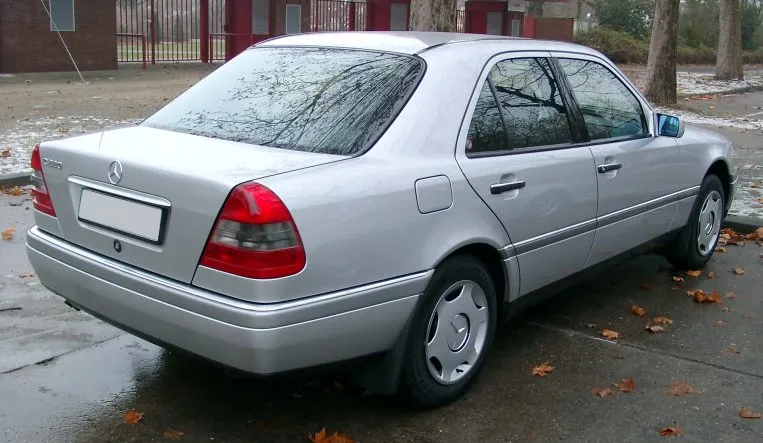
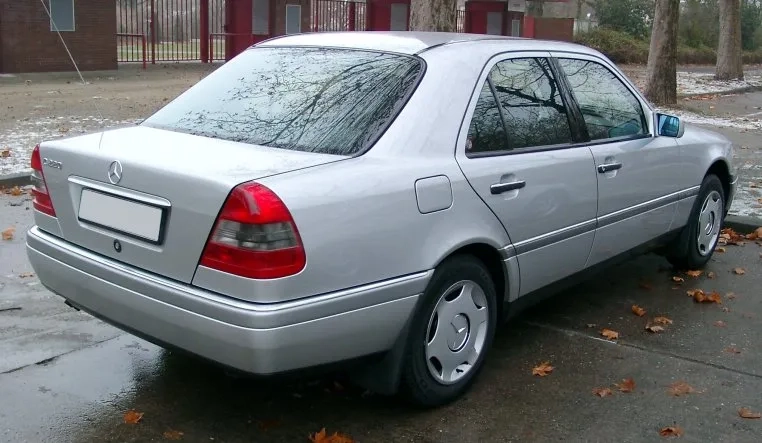
246

diff --git a/pic/ja_mb_img_c.html b/pic/ja_mb_img_c.html
@@ -420,7 +420,7 @@
 					</div>
 					<section>
 						<h4 class="displayNone">W202</h4>
-						<a href="full/c/w202_r.jpg"><img loading="lazy" src="style/c/w202_r.webp" alt="メルセデス,W202,Cクラス,リヤ" width="763" height="443"></a>
+						<a href="full/c/w202_r.jpg"><img loading="lazy" src="style/c/w202_r.webp" alt="メルセデス,W202,Cクラス,リヤ" width="762" height="443"></a>
 						<a href="full/c/w202_d.jpg"><img loading="lazy" src="style/c/w202_d.webp" alt="メルセデス,W202,Cクラス,ダッシュボード" width="443" height="443"></a><br>
 						<a href="full/c/w202_tp.jpg"><img loading="lazy" src="style/c/w202_tp.webp" alt="メルセデス,W202,Cクラス,寸法" width="1210" height="728"></a><br>
 						<a href="full/c/w202_s.jpg"><img loading="lazy" src="style/c/w202_s.webp" alt="メルセデス,W202,Cクラス,サイドビュー" width="746" height="420"></a>
@@ -431,10 +431,10 @@
 						<p class="i m1">06/1997</p><br>
 						<a href="full/c/w202_f2.jpg"><img loading="lazy" src="style/c/w202_f2.webp" alt="メルセデス,W202,Cクラス,フロント" width="735" height="315"></a>
 						<a href="full/c/w202_d2.jpg"><img loading="lazy" src="style/c/w202_d2.webp" alt="メルセデス,W202,Cクラス,ダッシュボード" width="467" height="315"></a><br>
-						<a href="full/c/w202_r2.jpg"><img loading="lazy" src="style/c/w202_r2.webp" alt="メルセデス,W202,Cクラス,リア" width="738" height="312"></a>
+						<a href="full/c/w202_r2.jpg"><img loading="lazy" src="style/c/w202_r2.webp" alt="メルセデス,W202,Cクラス,リア" width="737" height="312"></a>
 						<a href="full/c/w202_i2.jpg"><img loading="lazy" src="style/c/w202_i2.webp" alt="メルセデス,W202,Cクラス,インテリア" width="468" height="312"></a><br>
 						<a href="full/c/w202.jpg"><img loading="lazy" src="style/c/w202.webp" alt="メルセデス,W202,C-class" width="603" height="452"></a>
-						<a href="full/c/w202_m2.jpg"><img loading="lazy" src="style/c/w202_m2.webp" alt="メルセデス,W202,Cクラス,エンジン" width="603" height="452"></a>
+						<a href="full/c/w202_m2.jpg"><img loading="lazy" src="style/c/w202_m2.webp" alt="メルセデス,W202,Cクラス,エンジン" width="602" height="452"></a>
 						<h5>Dimensions</h5>
 						<a href="full/c/w202_a2.jpg"><img loading="lazy" src="style/c/w202_a2.webp" alt="メルセデス,W202,Cクラス,寸法" width="1210" height="712"></a>
 					</section>

diff --git a/pic/mb_img_c.html b/pic/mb_img_c.html
@@ -420,7 +420,7 @@
 					</div>
 					<section>
 						<h4 class="displayNone">W202</h4>
-						<a href="full/c/w202_r.jpg"><img loading="lazy" src="style/c/w202_r.webp" alt="Mercedes,W202,C-klasse,Heckansicht" width="763" height="443"></a>
+						<a href="full/c/w202_r.jpg"><img loading="lazy" src="style/c/w202_r.webp" alt="Mercedes,W202,C-klasse,Heckansicht" width="762" height="443"></a>
 						<a href="full/c/w202_d.jpg"><img loading="lazy" src="style/c/w202_d.webp" alt="Mercedes,W202,C-klasse,Instrumententafel" width="443" height="443"></a><br>
 						<a href="full/c/w202_tp.jpg"><img loading="lazy" src="style/c/w202_tp.webp" alt="Mercedes,W202,C-klasse,Perspektive" width="1210" height="728"></a><br>
 						<a href="full/c/w202_s.jpg"><img loading="lazy" src="style/c/w202_s.webp" alt="Mercedes,W202,C-klasse,Seitenansicht" width="746" height="420"></a>
@@ -431,10 +431,10 @@
 						<p class="i m1">06/1997</p><br>
 						<a href="full/c/w202_f2.jpg"><img loading="lazy" src="style/c/w202_f2.webp" alt="Mercedes,W202,C-klasse,Frontansicht" width="735" height="315"></a>
 						<a href="full/c/w202_d2.jpg"><img loading="lazy" src="style/c/w202_d2.webp" alt="Mercedes,W202,C-klasse,Instrumententafel" width="467" height="315"></a><br>
-						<a href="full/c/w202_r2.jpg"><img loading="lazy" src="style/c/w202_r2.webp" alt="Mercedes,W202,C-klasse,Heckansicht" width="738" height="312"></a>
+						<a href="full/c/w202_r2.jpg"><img loading="lazy" src="style/c/w202_r2.webp" alt="Mercedes,W202,C-klasse,Heckansicht" width="737" height="312"></a>
 						<a href="full/c/w202_i2.jpg"><img loading="lazy" src="style/c/w202_i2.webp" alt="Mercedes,W202,C-klasse,Innenansicht" width="468" height="312"></a><br>
 						<a href="full/c/w202.jpg"><img loading="lazy" src="style/c/w202.webp" alt="Mercedes,W202,C-klasse" width="603" height="452"></a>
-						<a href="full/c/w202_m2.jpg"><img loading="lazy" src="style/c/w202_m2.webp" alt="Mercedes,W202,C-klasse,Motor" width="603" height="452"></a>
+						<a href="full/c/w202_m2.jpg"><img loading="lazy" src="style/c/w202_m2.webp" alt="Mercedes,W202,C-klasse,Motor" width="602" height="452"></a>
 						<h5>Abmessungen</h5>
 						<a href="full/c/w202_a2.jpg"><img loading="lazy" src="style/c/w202_a2.webp" alt="Mercedes,W202,C-klasse,Maße" width="1210" height="712"></a>
 					</section>

diff --git a/pic/en_mb_img_c.html b/pic/en_mb_img_c.html
@@ -420,7 +420,7 @@
 					</div>
 					<section>
 						<h4 class="displayNone">W202</h4>
-						<a href="full/c/w202_r.jpg"><img loading="lazy" src="style/c/w202_r.webp" alt="Mercedes,W202,C-class,Rear view" width="763" height="443"></a>
+						<a href="full/c/w202_r.jpg"><img loading="lazy" src="style/c/w202_r.webp" alt="Mercedes,W202,C-class,Rear view" width="762" height="443"></a>
 						<a href="full/c/w202_d.jpg"><img loading="lazy" src="style/c/w202_d.webp" alt="Mercedes,W202,C-class,Dashboard" width="443" height="443"></a><br>
 						<a href="full/c/w202_tp.jpg"><img loading="lazy" src="style/c/w202_tp.webp" alt="Mercedes,W202,C-class,Perspective" width="1210" height="728"></a><br>
 						<a href="full/c/w202_s.jpg"><img loading="lazy" src="style/c/w202_s.webp" alt="Mercedes,W202,C-class,side view" width="746" height="420"></a>
@@ -431,10 +431,10 @@
 						<p class="i m1">06/1997</p><br>
 						<a href="full/c/w202_f2.jpg"><img loading="lazy" src="style/c/w202_f2.webp" alt="Mercedes,W202,C-class,Front view" width="735" height="315"></a>
 						<a href="full/c/w202_d2.jpg"><img loading="lazy" src="style/c/w202_d2.webp" alt="Mercedes,W202,C-class,Dashboard" width="467" height="315"></a><br>
-						<a href="full/c/w202_r2.jpg"><img loading="lazy" src="style/c/w202_r2.webp" alt="Mercedes,W202,C-class,Rear view" width="738" height="312"></a>
+						<a href="full/c/w202_r2.jpg"><img loading="lazy" src="style/c/w202_r2.webp" alt="Mercedes,W202,C-class,Rear view" width="737" height="312"></a>
 						<a href="full/c/w202_i2.jpg"><img loading="lazy" src="style/c/w202_i2.webp" alt="Mercedes,W202,C-class,Interior" width="468" height="312"></a><br>
 						<a href="full/c/w202.jpg"><img loading="lazy" src="style/c/w202.webp" alt="Mercedes,W202,C-class" width="603" height="452"></a>
-						<a href="full/c/w202_m2.jpg"><img loading="lazy" src="style/c/w202_m2.webp" alt="Mercedes,W202,C-class,Engine" width="603" height="452"></a>
+						<a href="full/c/w202_m2.jpg"><img loading="lazy" src="style/c/w202_m2.webp" alt="Mercedes,W202,C-class,Engine" width="602" height="452"></a>
 						<h5>Dimensions</h5>
 						<a href="full/c/w202_a2.jpg"><img loading="lazy" src="style/c/w202_a2.webp" alt="Mercedes,W202,C-class,dimensions" width="1210" height="712"></a>
 					</section>
